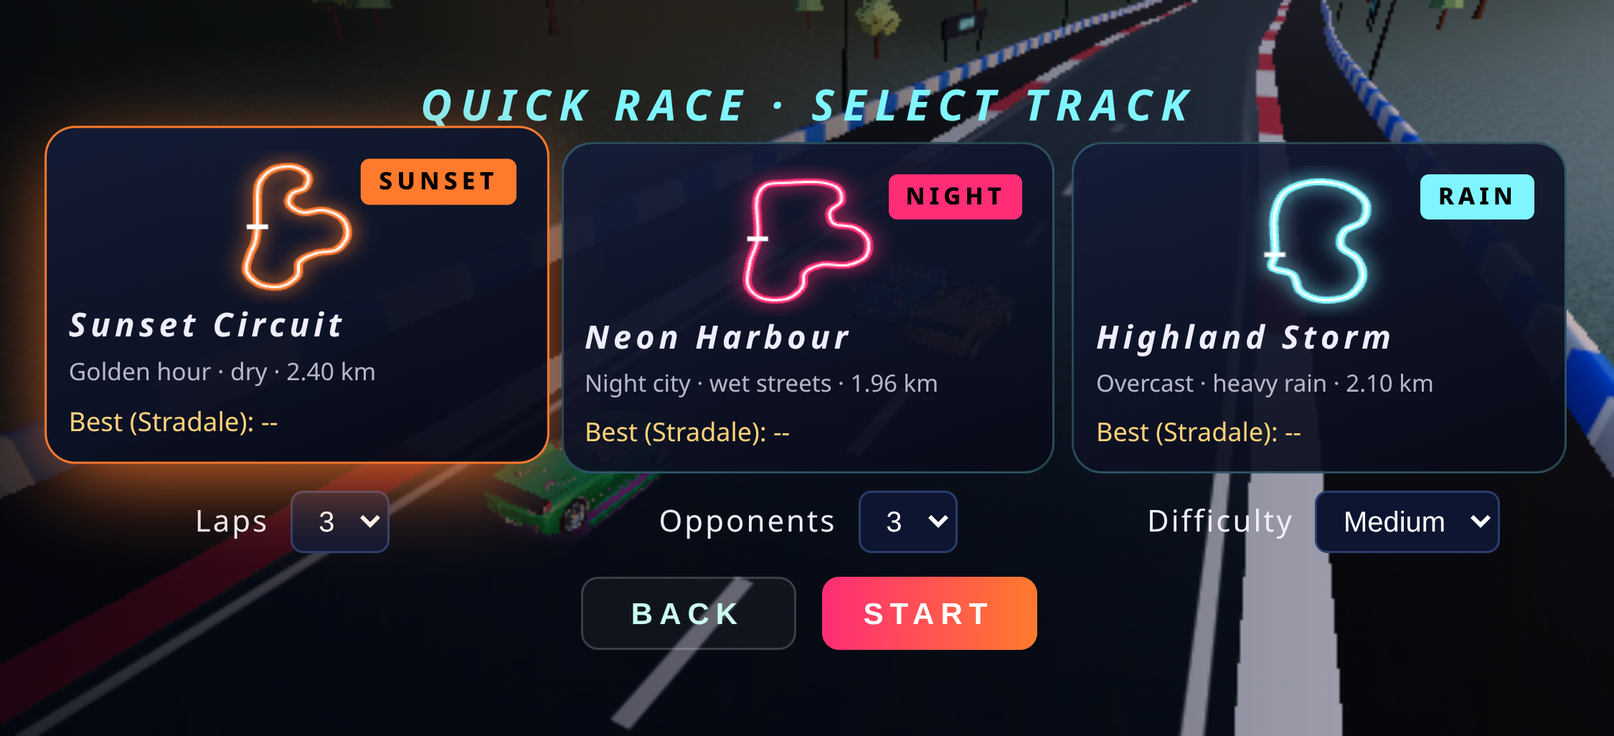
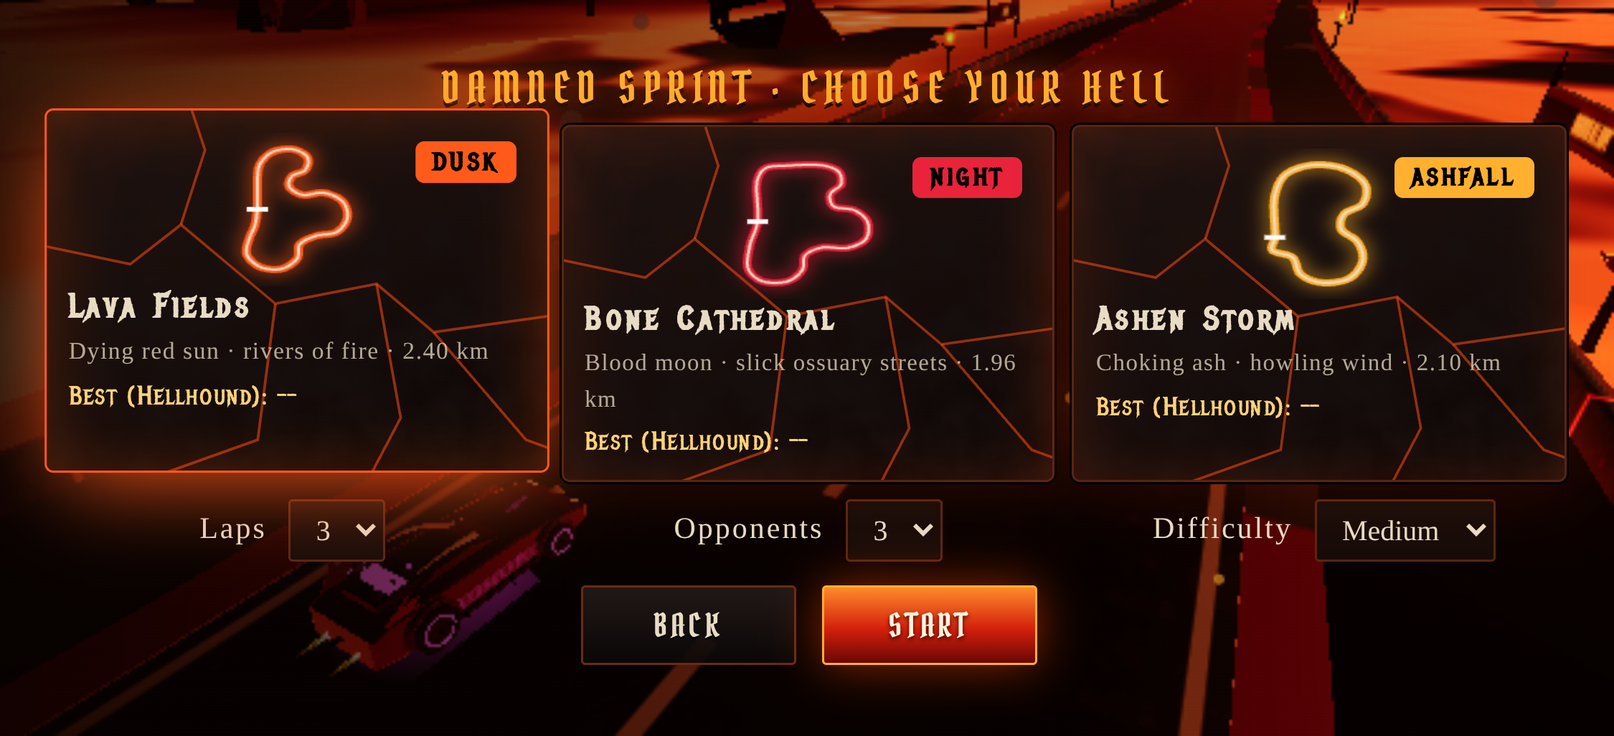
Softer hellfire particles; README + CREDITS for HELLDRIVE; screenshot script for new tracks

diff --git a/src/main.ts b/src/main.ts
@@ -164,8 +164,8 @@ function ensureWorld(id: string, onProgress?: (f: number) => void): Promise<void
     renderer.toneMappingExposure = def.exposure;
     skids = new SkidMarks(world, [600, 1500, 3000][quality]);
     smoke = new Smoke(world, [150, 400, 700][quality], [0.22, 0.17, 0.15]); // ash-dark tire smoke
-    fire = new Smoke(world, [160, 320, 520][quality], [1, 0.32, 0.05], true); // hellfire: Soul Burn trails, banishments
-    Object.assign(fire, { fade: 1.5, grow: 1.2, gravity: -5, drag: 1.2, baseSize: 0.9 });
+    fire = new Smoke(world, [160, 320, 520][quality], [1, 0.3, 0.04], true, 0.5); // hellfire: Soul Burn trails, banishments
+    Object.assign(fire, { fade: 1.8, grow: 0.35, gravity: -5, drag: 1.2, baseSize: 0.5 });
     sparks = new Smoke(world, [120, 250, 400][quality], [1, 0.55, 0.15], true);
     Object.assign(sparks, { fade: 2.2, grow: -0.5, gravity: 14, drag: 0.6, baseSize: 0.45 });
     shock = new Shockwaves(world);
@@ -347,7 +347,7 @@ function takedown(r: Racer) {
   addScore(1000, 'BANISHED!', 'big red');
   slowmo(1.1); shake = 1; audio.boom(1);
   emitSparks(r.phys.pos, r.phys.velocity(new THREE.Vector3()), 40);
-  emitFire(r.phys.pos, r.phys.velocity(new THREE.Vector3()), 50, 6);
+  emitFire(r.phys.pos, r.phys.velocity(new THREE.Vector3()), 30, 4);
   shock.spawn(r.phys.pos, 0xff2a08, true);
 }
 const fireP = new THREE.Vector3();
@@ -394,7 +394,7 @@ function nearMissTick(dt: number) {
 }
 function fireShockwave() {
   shock.spawn(player.phys.pos, 0xff4a10); shock.spawn(player.phys.pos, 0xff1a08, true);
-  emitFire(player.phys.pos, player.phys.velocity(new THREE.Vector3()), 60, 10);
+  emitFire(player.phys.pos, player.phys.velocity(new THREE.Vector3()), 30, 6);
   if (speedPass) speedPass.uniforms.uShock.value = 1;
   audio.boom(0.6); shake = Math.min(1, shake + 0.5);
   let hit = 0;

diff --git a/src/effects.ts b/src/effects.ts
@@ -39,7 +39,7 @@ export class Smoke {
   private pos: Float32Array; private vel: Float32Array; private life: Float32Array; private size: Float32Array;
   private geo = new THREE.BufferGeometry();
   private next = 0;
-  constructor(scene: THREE.Object3D, private count: number, color = [0.55, 0.54, 0.53], additive = false) {
+  constructor(scene: THREE.Object3D, private count: number, color = [0.55, 0.54, 0.53], additive = false, alpha = additive ? 1 : 0.22) {
     this.pos = new Float32Array(count * 3); this.vel = new Float32Array(count * 3);
     this.life = new Float32Array(count); this.size = new Float32Array(count);
     this.geo.setAttribute('position', new THREE.BufferAttribute(this.pos, 3));
@@ -55,7 +55,7 @@ export class Smoke {
         float a = smoothstep(0.5,0.0,r)*clamp(vLife,0.0,1.0)*uAlpha; gl_FragColor=vec4(uColor,a); }`,
     });
     mat.uniforms.uColor = { value: new THREE.Vector3(...color) };
-    mat.uniforms.uAlpha = { value: additive ? 1 : 0.22 };
+    mat.uniforms.uAlpha = { value: alpha };
     if (additive) { mat.blending = THREE.AdditiveBlending; }
     const pts = new THREE.Points(this.geo, mat); pts.frustumCulled = false; scene.add(pts);
   }

diff --git a/src/track.ts b/src/track.ts
@@ -129,7 +129,7 @@ export class Track {
       const g = this.wall(side * (WALL_OFFSET + 0.3), 1.1, 0.6);
       const m = new THREE.Mesh(g, wallMat); m.castShadow = quality > 0; m.receiveShadow = true; scene.add(m);
     }
-    // --- neon light strips on top of the barriers (night tracks)
+    // --- ember strips on top of the barriers (night tracks)
     // --- iron spikes crowning both barriers
     {
       const step = [5, 3, 2][quality], count = Math.floor(N / step) * 2;

diff --git a/README.md b/README.md
@@ -1,85 +1,126 @@
-# NEON APEX
+# HELLDRIVE
 
 **▶ [Play in your browser](https://xdi8blox.github.io/neon-apex/)**
 
-**A golden-hour street circuit racer that runs entirely in the browser.** Physically based rendering lights a licensed glTF supercar with an HDRI and fills the circuit with CC0 PBR surfaces. The full post stack includes ambient occlusion, bloom, speed blur, lens flare and optional screen-space reflections on a wet road. Under it sits a hand-written tire-model physics sim, AI rivals that follow a computed racing line, a nitro system and procedural audio. There is no backend.
+**Race the damned through three hellscapes in demonic machines.** HELLDRIVE is an arcade circuit racer that runs entirely in the browser (Three.js, no backend). Every car, track prop, sky and sound is generated from code: horned and spiked demon cars with skull grilles and rune glow, obsidian terrain over rivers of flowing lava, burning braziers, bone gates, erupting volcanoes, falling ash, and an industrial infernal soundtrack. Under it sits a hand-written tire-model physics sim and AI rivals that follow a computed racing line.
 
-![Mid-race gameplay](screenshots/gameplay.png)
+<sub>The repository keeps its original name (`neon-apex`), and so does the URL. The game itself was rebranded from NEON APEX to HELLDRIVE.</sub>
 
-| Main menu (attract mode) | Cinematic intro flyby |
+![Lava Fields](screenshots/lava-fields.png)
+
+| Main menu | The Forge (garage) |
 |---|---|
-| ![Menu](screenshots/menu.png) | ![Intro](screenshots/intro.png) |
-| **Race start** | **Nitro boost** |
-| ![Start](screenshots/race-start.png) | ![Nitro](screenshots/nitro.png) |
-| **TV trackside camera** | **Wet road (SSR)** |
-| ![TV camera](screenshots/tv-camera.png) | ![Wet](screenshots/wet-gameplay.png) |
-
-| **Mobile (iPhone landscape, touch controls)** | |
-| ![Mobile](screenshots/mobile.png) | |
-
-<sub>Screenshots come from headless Chromium on SwiftShader (software GL) at the High preset, captured by `scripts/screenshots.mjs`. A real GPU looks the same and runs far faster.</sub>
-
-## Features
-
-**Visuals**
-- **Licensed glTF car** (Ferrari 458 Italia, CC BY 4.0; see [CREDITS.md](CREDITS.md)). Your car loads the full ~350k-triangle Draco model. AI cars use a meshopt-compressed LOD at about 15% of the triangles, with creased normals rebuilt at load time.
-- **Car materials**: `MeshPhysicalMaterial` paint with clearcoat and a procedural **metallic-flake** normal map, chrome, tinted glass, carbon fiber, and emissive head-, tail- and **brake lights** that feed bloom. Each car has a baked contact-shadow (AO) plane.
-- **HDRI lighting**: Poly Haven *Venice Sunset* (CC0) is used for the background and, through PMREM, for image-based lighting and reflections. The sun's direction is detected from the brightest texel of the HDRI, so shadows line up with the sky.
-- **PBR surfaces**: ambientCG asphalt and grass (CC0, color + normal + roughness) shipped as **KTX2 / Basis Universal** with JPG fallback. Lane markings are a separate decal layer, curbs are painted, and there is asphalt run-off.
-- **Wet road option**: a glossy, darker asphalt that reflects the HDRI. On High it adds an **SSR pass** (screen-space reflections) restricted to the road surface.
-- **Post stack**: ACES filmic tone mapping, **GTAO** ambient occlusion (High), MSAA render targets, Unreal bloom, **speed-scaled radial motion blur** and vignette, **lens flare with an anamorphic streak** on the sun.
-- **Nitro FX**: twin exhaust flames (additive animated shader), radial speed lines, chromatic fringe, extra FOV kick and a whoosh/roar sound.
-- **Cinematic intro**: a letterboxed crane-and-sweep flyby over the grid before the lights. Skip it with Enter.
-- **Scenery**: instanced broadleaf and conifer trees, reflective glass towers with lit windows, street lamps, tire stacks on the outside of tight corners, emissive sponsor billboards, a grandstand with crowd, and a start/finish gantry.
-- **Quality tiers** (Low / Medium / High) control pixel ratio, MSAA, shadow resolution, GTAO/SSR, bloom, lens flare, HDRI resolution, car detail, scenery density and particle budgets.
-
-**Driving model** (`src/car.ts`)
-- Bicycle-model vehicle dynamics at a fixed 120 Hz step: slip angles, saturating lateral tire forces, longitudinal load transfer and a friction circle
-- Rear-wheel drive, a 6-speed auto gearbox with torque curve and limiter, speed-sensitive rate-limited steering, and a handbrake for drifts
-- **Nitro**: a separate thrust that bypasses traction. The tank refills slowly over time and faster while drifting, and AI cars use it on straights
-- Stability assist, grass penalty, and barrier and car-to-car collisions
-
-**Mobile**
-- On-screen touch controls that only appear on touch devices: steer ◀ ▶, GAS, BRAKE, DRIFT, N₂O (multi-touch), plus pause, camera, fullscreen (with landscape lock where supported)
-- Optional **tilt-to-steer** via DeviceOrientation, including the iOS permission request
-- A landscape layout with a "rotate your phone" prompt in portrait, and a compact responsive HUD and menus
-- Page scroll, pinch and double-tap zoom, and long-press menus are blocked
-- Phones auto-pick the **Low / Mobile** preset: reduced pixel ratio, no post-processing/SSAO/SSR, LOD cars, 1k HDRI, lighter scenery, 3 rivals
-- `npm run test:mobile` runs a Playwright iPhone-landscape emulation that taps the controls and checks the car responds
-
-**Racing**
-- 0–7 AI rivals on three difficulties: a curvature-based racing line, grip-limited target speeds with a braking pass, lane-change avoidance, mild rubber-banding
-- 5-light countdown, lap timing and count, live positions, results table, **best lap saved in `localStorage`**
-- HUD: speedometer with RPM arc and gear, **nitro meter**, minimap, lap times, FPS
-- Cameras: Chase, Bumper, TV trackside (auto-zoom), Orbit
-- Pause menu, auto-pause on tab hide, attract mode behind the menu
-
-**Audio**: fully procedural Web Audio (engine with RPM pitch, tire screech, nitro roar and whoosh, impacts, beeps) with a mute toggle. No audio files are used.
-
-## Full game (v2)
-
-- **Loading screen** with animated neon car, progress bar and gameplay tips.
-- **Menus** with slide/skew transitions, a neon wipe between worlds and attract-mode camera swoops behind every screen.
-- **Modes:** Quick Race · Championship (3 rounds, every circuit, points 10-8-6-5-4-3-2-1, standings between rounds, champion screen) · Time Trial (best lap saved as a translucent ghost + live delta).
-- **Garage:** 4 cars (Stradale, GT Apex, Storm Rally, Neon Drifter) with different physics and bodykits, stat bars, paint picker, rotating 3D showroom (drag to spin).
-- **3 tracks:** Sunset Circuit (golden hour, dry) · Neon Harbour (night city, wet streets, neon barrier strips) · Highland Storm (overcast, heavy rain, reduced grip, road spray).
-- **Options:** graphics quality, SFX and music volume, default camera, km/h / mph, touch layout (steer left/right), tilt steering, FPS counter, reset records. Difficulty, laps and opponents on the track screen.
-- **Fun systems:** drift combos up to ×5 with popups (wall hit loses the combo), near misses with slow-mo, bumps and TAKEDOWNS, nitro shockwave (ring + screen ripple, shoves rivals), PERFECT START / jump-start bog, sparks, finish-line slow-mo, a cinematic replay of the last ~10 s, then a podium with confetti and results.
-- **Procedural synthwave soundtrack** (menu and race intensities) on its own volume bus.
+| ![Menu](screenshots/menu.png) | ![Garage](screenshots/garage.png) |
+| **Lava Fields** | **Bone Cathedral** |
+| ![Lava Fields](screenshots/lava-fields.png) | ![Bone Cathedral](screenshots/bone-cathedral.png) |
+| **Ashen Storm** | **Soul Burn** |
+| ![Ashen Storm](screenshots/ashen-storm.png) | ![Soul Burn](screenshots/soul-burn.png) |
+| **Throne of Ash (podium)** | **Mobile (iPhone landscape)** |
+| ![Podium](screenshots/podium.png) | ![Mobile](screenshots/mobile.png) |
 
 | | |
 |---|---|
-| ![Loading](screenshots/loading.png) | ![Main menu](screenshots/menu.png) |
-| ![Modes](screenshots/modes.png) | ![Track select](screenshots/tracks.png) |
-| ![Garage](screenshots/garage.png) | ![Garage - Neon Drifter](screenshots/garage-drifter.png) |
-| ![Options](screenshots/options.png) | ![Neon Harbour](screenshots/night-harbour.png) |
-| ![Highland Storm](screenshots/rain-highland.png) | ![Drift combo + near miss](screenshots/combo-nearmiss.png) |
-| ![Shockwave](screenshots/shockwave.png) | ![Takedown](screenshots/takedown.png) |
-| ![Replay](screenshots/replay.png) | ![Podium](screenshots/podium.png) |
-| ![Championship standings](screenshots/standings.png) | ![Mobile garage](screenshots/mobile-garage.png) |
-| ![Mobile track select](screenshots/mobile-tracks.png) | ![Mobile race](screenshots/mobile.png) |
+| ![Loading](screenshots/loading.png) | ![Modes](screenshots/modes.png) |
+| ![Track select](screenshots/tracks.png) | ![Garage - Succubus](screenshots/garage-succubus.png) |
+| ![Hellblast](screenshots/hellblast.png) | ![Banished](screenshots/banished.png) |
+| ![Ember drift + near miss](screenshots/combo-nearmiss.png) | ![Replay](screenshots/replay.png) |
+| ![Standings](screenshots/standings.png) | ![Options](screenshots/options.png) |
+| ![Mobile garage](screenshots/mobile-garage.png) | ![Mobile track select](screenshots/mobile-tracks.png) |
 
-Tests: `npm run test:sim` (AI on every track × car, no wall contacts), `npm run test:mobile`, `npm run test:flow` (menus, garage, perfect start, 3-round championship, time-trial ghost). Screens: `node scripts/screens.mjs`.
+<sub>The screenshots are captured in headless Chromium on SwiftShader (software GL) by `scripts/screens.mjs` and `npm run test:mobile`. A real GPU shows the same image and runs far faster.</sub>
+
+## Identity
+
+- **Logo and type.** The blackletter **Helldrive** logo is set in *Pirata One*, and the HUD numbers in *Metal Mania*. Both are SIL OFL fonts bundled locally in `public/fonts`. The logo glows with an animated ember gradient.
+- **UI.**
+  - Cracked-stone panels (an SVG turbulence texture with molten fissures) in a red, orange and black palette.
+  - Ember and ash particles drift over every menu.
+  - Screen changes use a **fire wipe** combined with a glowing **screen crack**, and screens rise out of the heat or burn away.
+- **Modes.**
+  - *Damned Sprint*: a quick race.
+  - *Infernal Crown*: a 3-round championship.
+  - *Soul Trial*: a time trial against your own **wraith** ghost.
+
+## The demon machines (`src/carmodel.ts`)
+
+All four cars are procedural geometry, with no external models. Each one has:
+- a raked wedge body and an obsidian canopy
+- tapered bone horns, iron spikes and a **skull grille** with burning eye sockets
+- an **exposed engine** with a glowing core and intake stacks
+- **emissive rune bands**
+- spiked wheels with glowing rims
+- **flame-breathing exhausts** that idle softly and roar during Soul Burn
+
+Static parts are merged per material, so a car costs about 10 draw calls. The geometry is cached for each car, with one copy at player detail and one at AI detail.
+
+| Car | Style | Lore |
+|---|---|---|
+| **Hellhound** | Balanced; ram horns, spine spikes | Forged from the ribcage of the first hound to escape the Ninth Circle. |
+| **Baphomet GT** | Huge top speed; great horns frame an iron wing | The goat-king wanted a throne that could outrun prayers. |
+| **Cerberus** | Launches hard and grips in ash; three skulls, bone plating, ribcage roll bar | Built to guard the gates. Ash storms only make it hungrier. |
+| **Succubus** | Slides forever and drinks Soul Burn from drifts; bat-wing fins, tail spike, magenta underglow | Every slide draws a sliver of soul from the road. |
+
+The garage (*The Forge*) shows each car's stats, lore, a hellish paint palette and a drag-to-spin turntable.
+
+## The hellscapes (`src/scenery.ts`, `src/tracks.ts`)
+
+**Shared by all three tracks:**
+- **Sky:** a procedural ember sky shader with smoke clouds lit from below, a red sun or blood moon, and stars. The same sky is baked into PMREM, so the cars and the obsidian reflect the inferno.
+- **Terrain and lava:**
+  - Faceted **obsidian terrain** whose valleys fill with **flowing lava**. The lava is an emissive domain-warped fbm shader with a cooling crust and bright veins, which creates rivers and lakes wherever the rock dips.
+  - The rock glows where it meets the lava.
+- **Trackside:**
+  - **Burning braziers** with animated fire and glow pools.
+  - **Spiked iron barriers** with an ember stripe.
+  - **Skull piles** on the corners and giant **horn gates** over the straights.
+  - Gothic spires with burning windows, charred dead trees and obsidian shards.
+  - The stands of the damned.
+- **Atmosphere:**
+  - **Erupting volcanoes** on the horizon that throw lava bombs.
+  - **Falling ash** and **rising embers**.
+  - Post-process **heat haze**.
+
+**Each track:**
+- **Lava Fields:** a dying red sun over lava seas, with lens flare and strong heat haze.
+- **Bone Cathedral (night):** a blood moon, with a nave of giant **bone ribs** vaulting over the longest straight. The ossuary streets are blood-slick and get SSR reflections on High.
+- **Ashen Storm:** choking ash, howling wind, heavy fog and reduced grip.
+
+## Hellfire effects
+
+- **Soul Burn** (formerly nitro):
+  - hellfire exhaust trails
+  - a red and orange grade, ember speed lines and chromatic fringe
+  - a whoosh and roar
+- **Hellblast:** firing Soul Burn with a full tank releases the demonic shockwave. It spawns a ring and a spinning **pentagram sigil**, sends out a fire burst and a screen ripple, and shoves nearby rivals aside.
+- **Drifts:** drift sparks are **embers** and tire smoke is ash-dark. Drift combos are *Ember / Scorching / Infernal* drifts.
+- **Banishing:** a takedown **banishes** the rival in fire, with a fire burst, a sigil and a car that keeps burning while it wrecks.
+- **Podium:** it is now the **Throne of Ash**. It has obsidian altar steps, a horned throne, a burning floor sigil, flanking braziers and a shower of embers and ash.
+- **Audio** (all procedural Web Audio):
+  - *Music:* an industrial infernal soundtrack in D phrygian (Dm, E♭, B♭, C♯dim) with a distorted kick, metallic snare, anvil hits, galloping overdriven bass, a tolling bell and a choir pad.
+  - *Engines:* they **growl**, using sub-harmonic AM flutter, detuned beating and a tanh drive.
+
+## Gameplay systems (unchanged)
+
+- **Physics:** a fixed 120 Hz bicycle-model tire sim with slip angles, a friction circle, load transfer, a 6-speed gearbox and a handbrake.
+- **Racing:**
+  - 0–7 AI rivals that follow a racing line, with three difficulties.
+  - Lap timing, positions and records saved in `localStorage`.
+  - Replay, four cameras and a gamepad.
+- **Fun systems:** drift combos up to ×5, near-miss slow-mo, an unholy (perfect) start or a cursed jump start, takedowns and a finish slow-mo.
+- **Mobile:**
+  - Robust multi-touch controls: each finger is tracked by its identifier, with live hit-testing so sliding between ◀ and ▶ works.
+  - Tilt steering and a landscape layout.
+  - The Low preset is picked automatically.
+- **Quality tiers:** Low, Medium and High scale:
+  - pixel ratio, MSAA, shadows, GTAO and SSR
+  - bloom, lens flare and shader octaves (sky, lava)
+  - terrain resolution, car detail, prop densities and particle budgets
+
+**Tests:**
+- `npm run test:sim`: AI on every track × car, with no barrier contacts.
+- `npm run test:touch`: multi-touch regression.
+- `npm run test:mobile`
+- `npm run test:flow`: menus, garage, perfect start, a 3-round championship and the time-trial ghost.
 
 ## Controls
 
@@ -89,7 +130,7 @@ Tests: `npm run test:sim` (AI on every track × car, no wall contacts), `npm run
 | Brake / reverse | `S` / `↓` | LT |
 | Steer | `A` `D` / `←` `→` | Left stick |
 | Handbrake | `Space` | A / B |
-| Nitro | `Shift` / `N` | X / RB |
+| Soul Burn | `Shift` / `N` | X / RB |
 | Skip intro | `Enter` / `Esc` | Start |
 | Change camera | `C` | Y |
 | Pause | `Esc` / `P` | Start |
@@ -114,7 +155,7 @@ npm run test:sim   # headless physics/AI regression: 3 laps at 5 AI skill/nitro 
 npm run screenshots  # needs `npx playwright install chromium` and a running preview on :4173
 ```
 
-Handy URL flags: `?quality=0|1|2` forces a graphics preset, `?wet=1` turns on the wet road, `?gtao=0` disables ambient occlusion, and `?autopilot=1` lets the AI drive your car (used for screenshots).
+Handy URL flags: `?quality=0|1|2` forces a graphics preset, `?gtao=0` disables ambient occlusion, and `?autopilot=1` lets the AI drive your car (used for screenshots).
 
 ## Deploying to GitHub Pages
 
@@ -122,11 +163,11 @@ Handy URL flags: `?quality=0|1|2` forces a graphics preset, `?wet=1` turns on th
 
 ## Tech stack
 
-- [Three.js](https://threejs.org/) r186: rendering, post-processing (`EffectComposer`, `UnrealBloomPass`, custom `ShaderPass`), `Sky`
+- [Three.js](https://threejs.org/) r186: rendering, custom GLSL (sky, lava, hellfire), post-processing (`EffectComposer`, `UnrealBloomPass`, custom `ShaderPass`)
 - TypeScript (strict) + [Vite](https://vitejs.dev/)
-- Loaders: `GLTFLoader` + `DRACOLoader` + meshopt decoder, `KTX2Loader` (Basis Universal), `HDRLoader`
-- Post: `GTAOPass`, `SSRPass`, `UnrealBloomPass`, `Lensflare`, custom speed/nitro `ShaderPass`, `OutputPass`
-- Asset pipeline: glTF-Transform + meshoptimizer for the LOD, Basis Universal `basisu` for KTX2
+- Loaders: `KTX2Loader` (Basis Universal) for the road texture; everything else is procedural
+- Post: `GTAOPass`, `SSRPass`, `UnrealBloomPass`, `Lensflare`, custom speed / Soul Burn / heat-haze `ShaderPass`, `OutputPass`
+- Asset pipeline: Basis Universal `basisu` for KTX2
 - Custom vehicle physics (no physics engine dependency: the planar tire model is both lighter and more tunable than a rigid-body engine for this game)
 - Web Audio API, Canvas 2D (HUD and procedural textures), Gamepad API
 - Playwright for automated screenshots
@@ -136,13 +177,15 @@ Handy URL flags: `?quality=0|1|2` forces a graphics preset, `?wet=1` turns on th
 ```
 src/
   main.ts      game loop, state machine, AI controller, collisions, cameras, post-FX
-  assets.ts    asset loading (Draco/meshopt glTF, KTX2, HDR) with progress
-  carmodel.ts  car materials (flake paint, chrome, glass, lights), LOD, nitro flames
-  car.ts       vehicle dynamics + nitro
+  assets.ts    asset loading (KTX2 road texture, bundled fonts) with progress
+  carmodel.ts  procedural demon cars (horns, spikes, skulls, engine, runes), hellfire exhausts
+  car.ts       vehicle dynamics + Soul Burn
   track.ts     circuit spline, racing line, target speeds, road/curb/barrier geometry
-  scenery.ts   HDRI lighting, sun + lens flare, PBR ground, instanced scenery
-  effects.ts   skid marks and tire smoke
-  audio.ts     procedural engine/tire/impact audio
+  scenery.ts   ember sky, lava + obsidian terrain, braziers, bones, spires, volcanoes, ash
+  effects.ts   skid marks, smoke/fire/embers, Soul Burn rings + sigils, ember confetti
+  embers.ts    menu ember/ash overlay
+  audio.ts     procedural growling engine/tire/impact audio
+  music.ts     procedural industrial infernal soundtrack
   input.ts     keyboard + gamepad
   hud.ts       speedometer, minimap, timing
 scripts/
@@ -152,7 +195,7 @@ scripts/
 
 ## Credits
 
-Third-party assets and their licenses are listed in [CREDITS.md](CREDITS.md). The car model is **CC BY 4.0, by vicent091036**. The HDRI (Poly Haven) and PBR textures (ambientCG) are CC0.
+Third-party assets and their licenses are listed in [CREDITS.md](CREDITS.md). They are the Pirata One and Metal Mania fonts (SIL OFL 1.1) and the ambientCG asphalt texture (CC0). Everything else, including the cars, is procedural.
 
 ## License
 

diff --git a/CREDITS.md b/CREDITS.md
@@ -1,26 +1,31 @@
 # Credits & Third-Party Assets
 
 The code is MIT-licensed (see `LICENSE`). Bundled third-party assets keep their own licenses, listed below.
-Anything not listed here (barrier/curb/marking textures, flare sprites, metallic-flake map, scenery geometry,
-nitro flame shader, all audio) is generated procedurally at runtime and is part of this project.
+
+Everything not listed here is generated procedurally at runtime and is part of this project. That covers:
+- the four demon cars: bodies, horns, spikes, skull grilles, engines, rune decals and wheels
+- the ember sky and lava shaders, and the obsidian terrain
+- the braziers, bone, skull and horn ornaments, spires and volcanoes
+- the ash, ember and fire particles, and the sigil and rune textures
+- the barrier, curb and marking textures
+- all music and sound effects
+
+No 3D models, HDRIs or audio files are shipped.
 
 | File(s) | Asset | Author | Source | License |
 |---|---|---|---|---|
-| `public/models/ferrari.glb`, `public/models/ferrari_ao.png` | "Ferrari 458 Italia" | **vicent091036** | Sketchfab (model 57bf6cc56931426e87494f554df1dab6), redistributed in the [three.js examples](https://github.com/mrdoob/three.js/tree/dev/examples/models/gltf) | [CC BY 4.0](https://creativecommons.org/licenses/by/4.0/) |
-| `public/models/ferrari_lod.glb` | Derivative of the above: normals/UVs stripped, simplified to ~15% with meshoptimizer, meshopt-compressed (EXT_meshopt_compression) | derived by this project | — | CC BY 4.0 (inherits) |
-| `public/hdri/venice_sunset_{1k,2k}.hdr` | "Venice Sunset" HDRI | Greg Zaal | [Poly Haven](https://polyhaven.com/a/venice_sunset) | [CC0 1.0](https://creativecommons.org/publicdomain/zero/1.0/) |
-| `public/hdri/shanghai_bund_{1k,2k}.hdr` | "Shanghai Bund" HDRI (Neon Harbour night sky) | Greg Zaal | [Poly Haven](https://polyhaven.com/a/shanghai_bund) | [CC0 1.0](https://creativecommons.org/publicdomain/zero/1.0/) |
-| `public/hdri/kloofendal_overcast_puresky_{1k,2k}.hdr` | "Kloofendal Overcast (Pure Sky)" HDRI (Highland Storm) | Greg Zaal | [Poly Haven](https://polyhaven.com/a/kloofendal_overcast_puresky) | [CC0 1.0](https://creativecommons.org/publicdomain/zero/1.0/) |
-| `public/textures/asphalt_*.{ktx2,jpg}` | Asphalt025C (color, normal GL, roughness) | ambientCG (Lennart Demes) | [ambientCG](https://ambientcg.com/view?id=Asphalt025C) | [CC0 1.0](https://docs.ambientcg.com/license/) |
-| `public/textures/grass_*.{ktx2,jpg}` | Grass004 (color, normal GL, roughness) | ambientCG (Lennart Demes) | [ambientCG](https://ambientcg.com/view?id=Grass004) | [CC0 1.0](https://docs.ambientcg.com/license/) |
-| `public/draco/*` | Draco glTF decoder | Google | three.js `examples/jsm/libs/draco` | Apache-2.0 |
+| `public/fonts/PirataOne-Regular.ttf` | "Pirata One" (logo, headings, buttons) | Rodrigo Fuenzalida, Nicolas Massi | [Google Fonts](https://fonts.google.com/specimen/Pirata+One) | [SIL OFL 1.1](public/fonts/OFL-PirataOne.txt) |
+| `public/fonts/MetalMania-Regular.ttf` | "Metal Mania" (HUD numbers, body text) | Open Window | [Google Fonts](https://fonts.google.com/specimen/Metal+Mania) | [SIL OFL 1.1](public/fonts/OFL-MetalMania.txt) |
+| `public/textures/asphalt_*.{ktx2,jpg}` | Asphalt025C (color, normal GL, roughness), tinted to basalt in-game | ambientCG (Lennart Demes) | [ambientCG](https://ambientcg.com/view?id=Asphalt025C) | [CC0 1.0](https://docs.ambientcg.com/license/) |
 | `public/basis/*` | Basis Universal transcoder | Binomial LLC | three.js `examples/jsm/libs/basis` | Apache-2.0 |
 
-**Modifications:** the Ferrari is recolored per car and its materials are replaced at runtime: clearcoat car paint with a metallic-flake normal map, chrome, tinted glass, and emissive head-, tail- and brake lights. The textures were re-encoded to KTX2 (Basis Universal ETC1S for color and roughness, UASTC for normals, with mipmaps) using the `basisu` CLI (WASI build); JPG copies are kept as a fallback.
+The fonts are shipped unmodified, together with their OFL license texts.
 
-**Note on the car model:** the original Sketchfab page now reports the model as disabled. The CC BY 4.0 attribution above is the one used by three.js, which redistributes the file. If you need certainty before a commercial use, swap in a model whose license you can verify directly. `src/carmodel.ts` maps materials by name, so another glTF car only needs its material and wheel node names updated.
+The textures were re-encoded to KTX2 (Basis Universal ETC1S for color and roughness, UASTC for normals, with mipmaps) using the `basisu` CLI. JPG copies are kept as a fallback.
 
-Sound: none. All audio is synthesized with the Web Audio API.
+**Removed in the HELLDRIVE redesign:**
+- the Ferrari 458 glTF model (CC BY 4.0) and its Draco decoder
+- the Poly Haven HDRIs
+- the ambientCG grass textures
 
-
-The four cars share the CC BY 4.0 Ferrari model above; their bodykits (wings, splitters, light bar, mud flaps, ducktail, underglow) are procedural geometry made for this project. Music and all sound effects are synthesized at runtime with Web Audio (no samples).
+None of these is used any more.
